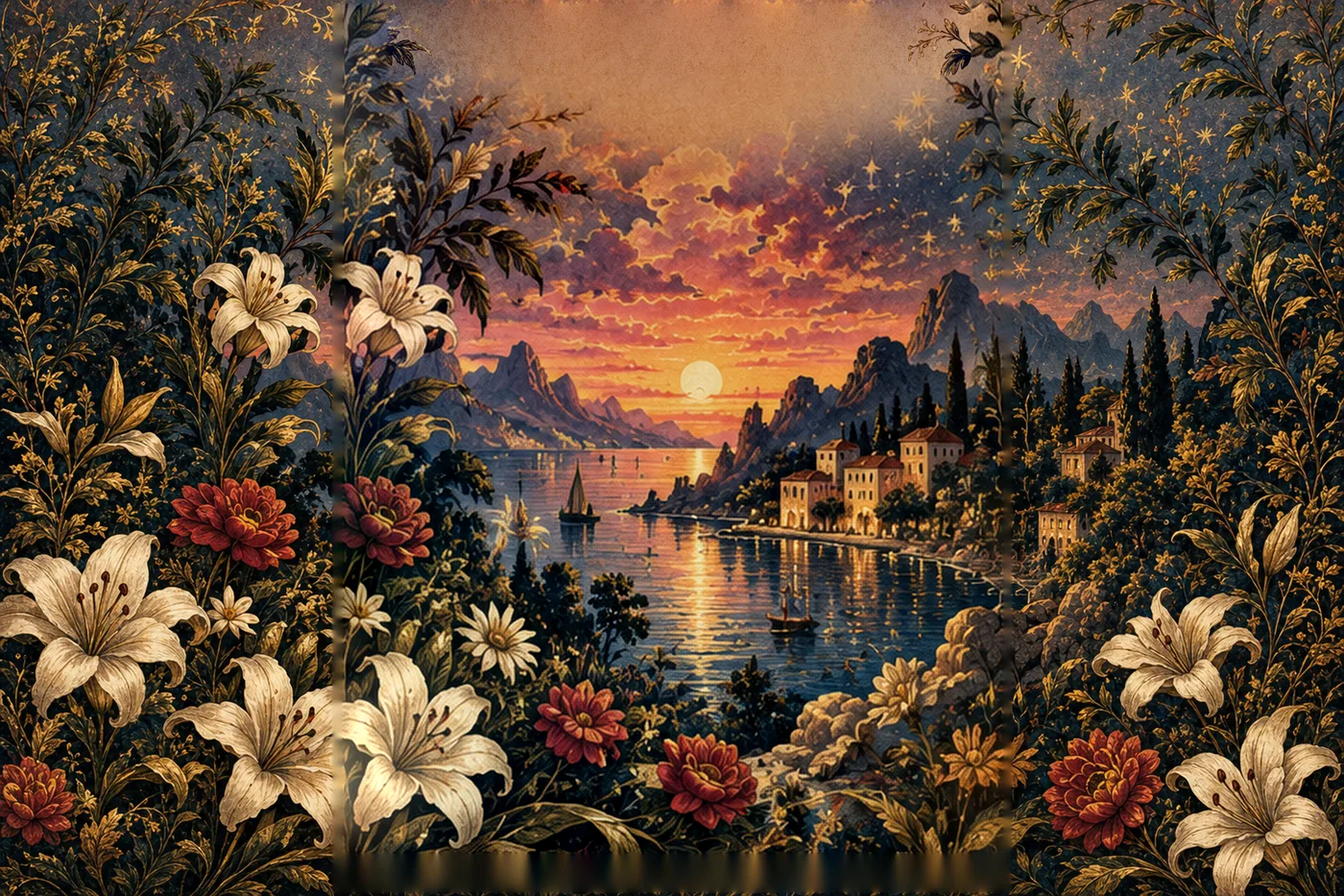
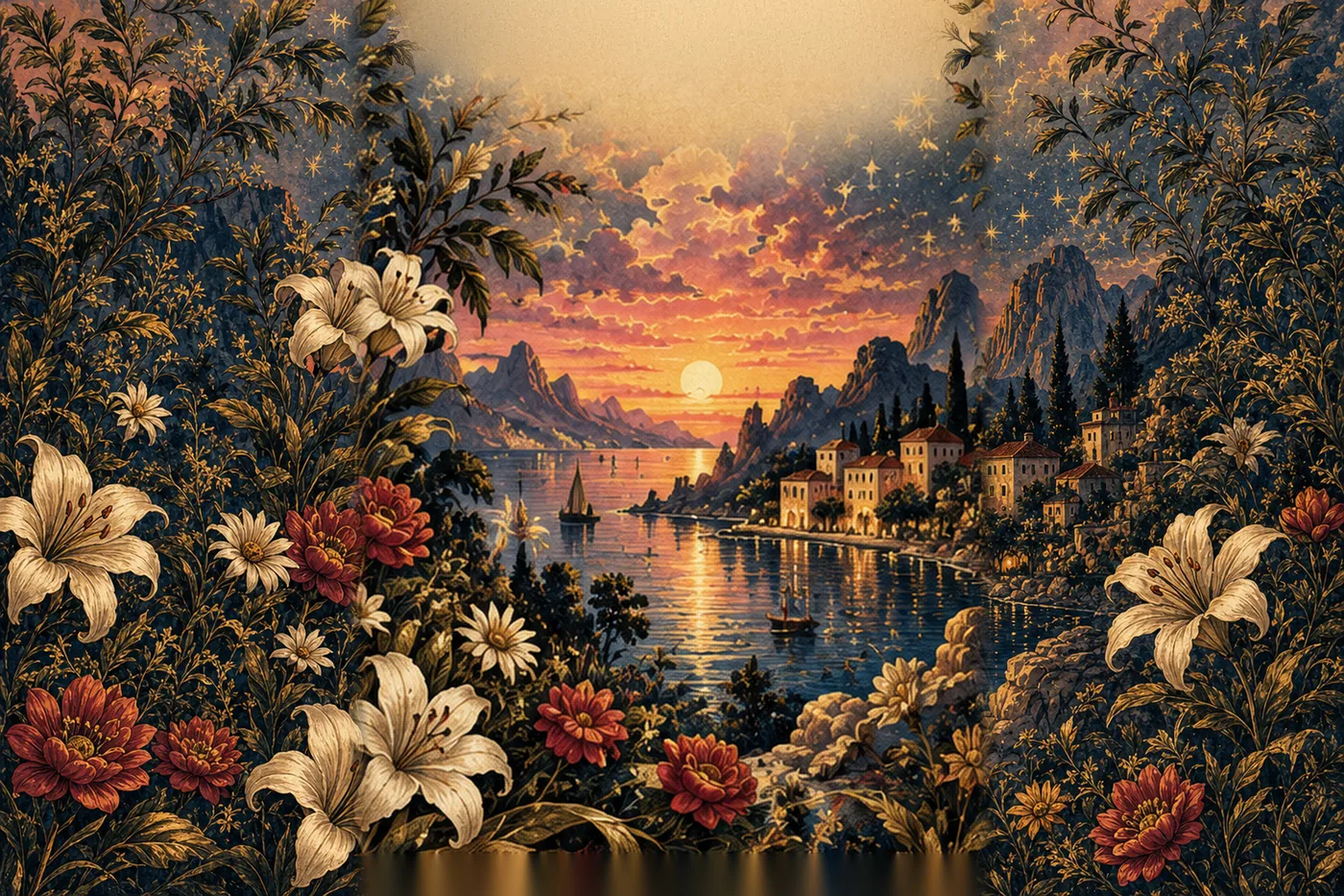
Welcome Back: one seamless repaint of the top layer (single crescent, stars, lilies, vines unbroken down both sides into plain parchment, no joins); the sunset's frame line cropped away; the form clear of the vines

diff --git a/public/art/sizes.js b/public/art/sizes.js
@@ -1,2 +1,2 @@
 /* generated by scripts/asset-manifest.mjs: [width, height, alpha] of every image under /art */
-window.KOSMIA_SIZES={"atlas/aw-clouds":[960,134,1],"atlas/aw-foot":[850,1004,0],"atlas/aw-top":[1269,846,0],"atlas/banner-calendar":[760,506,0],"atlas/banner-library":[760,506,0],"atlas/cal-scene":[1100,733,0],"atlas/ce-vignette":[480,720,0],"atlas/ds-death":[560,560,0],"atlas/ds-flying":[560,560,0],"atlas/ds-house":[560,560,0],"atlas/ds-snake":[560,560,0],"atlas/ds-water":[560,560,0],"atlas/ev-eclipse":[720,480,0],"atlas/ev-full":[720,480,0],"atlas/ev-meteor":[720,480,0],"atlas/ev-new":[720,480,0],"atlas/ev-planet":[720,480,0],"atlas/ev-quarter":[720,480,0],"atlas/ev-sun":[720,480,0],"atlas/ex-chart":[560,560,0],"atlas/ex-compat":[560,560,0],"atlas/ex-lifepath":[560,560,0],"atlas/ex-name":[560,560,0],"atlas/ex-resonance":[560,560,0],"atlas/fg-aquarius":[900,900,1],"atlas/fg-aries":[900,900,1],"atlas/fg-cancer":[900,900,1],"atlas/fg-capricorn":[900,900,1],"atlas/fg-gemini":[900,900,1],"atlas/fg-leo":[900,900,1],"atlas/fg-libra":[900,900,1],"atlas/fg-pisces":[900,900,1],"atlas/fg-sagittarius":[900,900,1],"atlas/fg-scorpio":[900,900,1],"atlas/fg-taurus":[900,900,1],"atlas/fg-virgo":[900,900,1],"atlas/hero-affinity":[1100,733,0],"atlas/hero-chart":[1100,733,0],"atlas/hero-discover":[1024,1024,0],"atlas/hero-dream":[1100,733,0],"atlas/hero-horoscope":[1024,1024,0],"atlas/hero-insights":[1100,733,0],"atlas/hero-journal":[1024,1024,0],"atlas/hero-lifepath":[1100,733,0],"atlas/hero-name":[1100,733,0],"atlas/hero-tarot":[1024,1024,0],"atlas/home-energy":[1200,800,0],"atlas/home-garden":[720,1080,0],"atlas/home-halo":[560,560,1],"atlas/home-lake":[720,1080,0],"atlas/home-sky":[1024,1536,0],"atlas/home-sun":[960,640,0],"atlas/home-vines":[720,1080,0],"atlas/ico-career":[275,320,1],"atlas/ico-family":[270,320,1],"atlas/ico-health":[281,320,1],"atlas/ico-love":[319,320,1],"atlas/ico-money":[262,320,1],"atlas/ico-overview":[282,320,1],"atlas/journal-end":[640,960,0],"atlas/kassandra-banner":[1100,733,0],"atlas/kassandra":[760,760,0],"atlas/landscape":[1100,733,0],"atlas/med-aquarius":[560,560,0],"atlas/med-aries":[560,560,0],"atlas/med-cancer":[560,560,0],"atlas/med-capricorn":[560,560,0],"atlas/med-gemini":[560,560,0],"atlas/med-leo":[560,560,0],"atlas/med-libra":[560,560,0],"atlas/med-pisces":[560,560,0],"atlas/med-sagittarius":[560,560,0],"atlas/med-scorpio":[560,560,0],"atlas/med-taurus":[560,560,0],"atlas/med-virgo":[560,560,0],"atlas/nav-discover":[314,320,1],"atlas/nav-home":[267,320,1],"atlas/nav-horoscope":[295,320,1],"atlas/nav-kassandra":[319,320,1],"atlas/nav-tarot":[270,320,1],"atlas/ne-card":[230,320,1],"atlas/ne-free":[269,320,1],"atlas/ob-crescent":[1200,800,0],"atlas/ob-final":[1200,800,0],"atlas/ob-sunset-blooms":[960,1440,1],"atlas/ob-sunset":[960,1440,0],"atlas/ob-welcome":[1024,1536,0],"atlas/ob-woman":[1200,800,0],"atlas/obm-dream":[192,192,0],"atlas/obm-moon":[192,192,0],"atlas/obm-star":[192,192,0],"atlas/obm-sun":[192,192,0],"atlas/obm-tarot":[192,192,0],"atlas/owl":[1100,733,0],"atlas/plate-aquarius":[640,960,0],"atlas/plate-aries":[640,960,0],"atlas/plate-cancer":[640,960,0],"atlas/plate-capricorn":[640,960,0],"atlas/plate-gemini":[640,960,0],"atlas/plate-leo":[640,960,0],"atlas/plate-libra":[640,960,0],"atlas/plate-pisces":[640,960,0],"atlas/plate-sagittarius":[640,960,0],"atlas/plate-scorpio":[640,960,0],"atlas/plate-taurus":[640,960,0],"atlas/plate-virgo":[640,960,0],"atlas/t-history":[307,320,1],"atlas/t-journal":[315,320,1],"atlas/t-reading":[269,320,1],"atlas/t-whisper":[315,320,1],"atlas/wb-sun":[1400,933,0],"atlas/wb-top":[1024,1536,0],"atlas/welcome":[640,960,0],"atlas/zm-aquarius":[400,400,0],"atlas/zm-aries":[400,400,0],"atlas/zm-cancer":[400,400,0],"atlas/zm-capricorn":[400,400,0],"atlas/zm-gemini":[400,400,0],"atlas/zm-leo":[400,400,0],"atlas/zm-libra":[400,400,0],"atlas/zm-pisces":[400,400,0],"atlas/zm-sagittarius":[400,400,0],"atlas/zm-scorpio":[400,400,0],"atlas/zm-taurus":[400,400,0],"atlas/zm-virgo":[400,400,0],"atlas/zs-bg":[850,1850,0],"cards/back":[600,900,0],"cards/cartouche":[640,640,1],"cards/crest":[144,67,1],"cards/kassandra-float":[278,300,1],"cards/kassandra":[480,480,0],"cards/ornament":[144,53,1],"cards/plaque":[1024,432,1],"cards/tarot-back":[600,900,0],"cats/aspects":[160,160,1],"cats/calendar":[160,160,1],"cats/career":[160,160,1],"cats/chart":[160,160,1],"cats/collection":[160,160,1],"cats/connections":[160,160,1],"cats/cycles":[160,160,1],"cats/deck":[160,160,1],"cats/family":[160,160,1],"cats/finance":[160,160,1],"cats/general":[160,160,1],"cats/health":[160,160,1],"cats/history":[160,160,1],"cats/insights":[160,160,1],"cats/lifepath":[160,160,1],"cats/love":[160,160,1],"cats/match":[160,160,1],"cats/moon":[160,160,1],"cats/namewithin":[160,160,1],"cats/new":[160,160,1],"cats/notifications":[160,160,1],"cats/planetary":[160,160,1],"cats/planets":[160,160,1],"cats/prefs":[160,160,1],"cats/privacy":[160,160,1],"cats/profile":[160,160,1],"cats/reflections":[160,160,1],"cats/resonance":[160,160,1],"cats/saved":[160,160,1],"cats/settings":[160,160,1],"cats/spreads":[160,160,1],"cats/today":[160,160,1],"cats/upcoming":[160,160,1],"cosmos":[768,1152,0],"deck/c1":[720,1080,0],"deck/c10":[720,1080,0],"deck/c11":[720,1080,0],"deck/c12":[720,1080,0],"deck/c13":[720,1080,0],"deck/c14":[720,1080,0],"deck/c2":[720,1080,0],"deck/c3":[720,1080,0],"deck/c4":[720,1080,0],"deck/c5":[720,1080,0],"deck/c6":[720,1080,0],"deck/c7":[720,1080,0],"deck/c8":[720,1080,0],"deck/c9":[720,1080,0],"deck/m0":[720,1080,0],"deck/m1":[720,1080,0],"deck/m10":[720,1080,0],"deck/m11":[720,1080,0],"deck/m12":[720,1080,0],"deck/m13":[720,1080,0],"deck/m14":[720,1080,0],"deck/m15":[720,1080,0],"deck/m16":[720,1080,0],"deck/m17":[720,1080,0],"deck/m18":[720,1080,0],"deck/m19":[720,1080,0],"deck/m2":[720,1080,0],"deck/m20":[720,1080,0],"deck/m21":[720,1080,0],"deck/m3":[720,1080,0],"deck/m4":[720,1080,0],"deck/m5":[720,1080,0],"deck/m6":[720,1080,0],"deck/m7":[720,1080,0],"deck/m8":[720,1080,0],"deck/m9":[720,1080,0],"deck/p1":[720,1080,0],"deck/p10":[720,1080,0],"deck/p11":[720,1080,0],"deck/p12":[720,1080,0],"deck/p13":[720,1080,0],"deck/p14":[720,1080,0],"deck/p2":[720,1080,0],"deck/p3":[720,1080,0],"deck/p4":[720,1080,0],"deck/p5":[720,1080,0],"deck/p6":[720,1080,0],"deck/p7":[720,1080,0],"deck/p8":[720,1080,0],"deck/p9":[720,1080,0],"deck/s1":[720,1080,0],"deck/s10":[720,1080,0],"deck/s11":[720,1080,0],"deck/s12":[720,1080,0],"deck/s13":[720,1080,0],"deck/s14":[720,1080,0],"deck/s2":[720,1080,0],"deck/s3":[720,1080,0],"deck/s4":[720,1080,0],"deck/s5":[720,1080,0],"deck/s6":[720,1080,0],"deck/s7":[720,1080,0],"deck/s8":[720,1080,0],"deck/s9":[720,1080,0],"deck/w1":[720,1080,0],"deck/w10":[720,1080,0],"deck/w11":[720,1080,0],"deck/w12":[720,1080,0],"deck/w13":[720,1080,0],"deck/w14":[720,1080,0],"deck/w2":[720,1080,0],"deck/w3":[720,1080,0],"deck/w4":[720,1080,0],"deck/w5":[720,1080,0],"deck/w6":[720,1080,0],"deck/w7":[720,1080,0],"deck/w8":[720,1080,0],"deck/w9":[720,1080,0],"frame-paper":[944,600,0],"frame":[1024,1536,0],"icons/aquarius":[256,256,1],"icons/aries":[256,256,1],"icons/cancer":[256,256,1],"icons/capricorn":[256,256,1],"icons/gemini":[256,256,1],"icons/leo":[256,256,1],"icons/libra":[256,256,1],"icons/pisces":[256,256,1],"icons/sagittarius":[256,256,1],"icons/scorpio":[256,256,1],"icons/taurus":[256,256,1],"icons/virgo":[256,256,1],"moons/first-quarter":[420,420,1],"moons/full-moon":[420,420,1],"moons/last-quarter":[420,420,1],"moons/new-moon":[420,420,1],"moons/waning-crescent":[420,420,1],"moons/waning-gibbous":[420,420,1],"moons/waxing-crescent":[420,420,1],"moons/waxing-gibbous":[420,420,1],"nav/calendar":[128,128,1],"nav/chart":[128,128,1],"nav/fortune":[128,128,1],"nav/home":[128,128,1],"nav/horoscopes":[128,128,1],"nav/love":[128,128,1],"nav/tarot":[128,128,1],"nav/universe":[128,128,1],"onboarding-paper":[1024,234,0],"onboarding":[1024,1536,0],"pages/compass-rose":[1024,1536,0],"pages/cover":[1024,1536,0],"pages/edge-h":[768,512,0],"pages/edge-v":[512,768,0],"pages/moon-phases":[1024,1536,0],"pages/night-sky":[1024,1536,0],"pages/pressed-roses":[1024,1536,0],"pages/sleeping-moon":[1024,1536,0],"pages/sun-face":[1024,1536,0],"plates/astro":[1024,683,0],"plates/connections":[1024,683,0],"plates/cycles":[1024,683,0],"plates/events":[1024,683,0],"plates/ins-astro":[1024,683,0],"plates/ins-numbers":[1024,683,0],"plates/ins-oracle":[1024,683,0],"plates/lifepath":[1024,683,0],"plates/locket":[1024,683,0],"plates/moon":[1024,683,0],"plates/name":[1024,683,0],"plates/natal":[1024,683,0],"plates/numbers":[1024,683,0],"plates/oracle":[1024,683,0],"plates/orrery":[1024,683,0],"plates/readings":[1024,683,0],"plates/sky":[1024,683,0],"plates/starmap":[1024,683,0],"plates/sunmoon":[1024,683,0],"plates/synastry":[1024,683,0],"scenes/aquarius":[768,1152,0],"scenes/aries":[768,1152,0],"scenes/cancer":[768,1152,0],"scenes/capricorn":[768,1152,0],"scenes/gemini":[768,1152,0],"scenes/leo":[768,1152,0],"scenes/libra":[768,1152,0],"scenes/pisces":[768,1152,0],"scenes/sagittarius":[768,1152,0],"scenes/scorpio":[768,1152,0],"scenes/taurus":[768,1152,0],"scenes/virgo":[768,1152,0],"spreads/career":[192,192,1],"spreads/celtic":[192,192,1],"spreads/love":[192,192,1],"spreads/one":[192,192,1],"spreads/ppf":[192,192,1],"spreads/scg":[192,192,1],"whispers/butterfly":[720,1080,0],"whispers/clear-crystal":[720,1080,0],"whispers/crossroads":[720,1080,0],"whispers/daily-bread":[720,1080,0],"whispers/dawn-chorus":[720,1080,0],"whispers/deep-roots":[720,1080,0],"whispers/distant-ship":[720,1080,0],"whispers/fairy-ring":[720,1080,0],"whispers/first-light":[720,1080,0],"whispers/gentle-rain":[720,1080,0],"whispers/golden-hour":[720,1080,0],"whispers/golden-key":[720,1080,0],"whispers/hidden-garden":[720,1080,0],"whispers/inner-key":[720,1080,0],"whispers/late-bloom":[720,1080,0],"whispers/lighthouse":[720,1080,0],"whispers/music-box":[720,1080,0],"whispers/nightingale":[720,1080,0],"whispers/north-star":[720,1080,0],"whispers/old-tree":[720,1080,0],"whispers/open-door":[720,1080,0],"whispers/open-path":[720,1080,0],"whispers/quiet-harvest":[720,1080,0],"whispers/quiet-moon":[720,1080,0],"whispers/returning-tide":[720,1080,0],"whispers/rising-sun":[720,1080,0],"whispers/sacred-flame":[720,1080,0],"whispers/sanctuary":[720,1080,0],"whispers/sealed-letter":[720,1080,0],"whispers/silver-thread":[720,1080,0],"whispers/snow-tracks":[720,1080,0],"whispers/stargazer":[720,1080,0],"whispers/steady-star":[720,1080,0],"whispers/stepping-stones":[720,1080,0],"whispers/still-water":[720,1080,0],"whispers/the-anchor":[720,1080,0],"whispers/the-aurora":[720,1080,0],"whispers/the-balloon":[720,1080,0],"whispers/the-bell":[720,1080,0],"whispers/the-bench":[720,1080,0],"whispers/the-birdcage":[720,1080,0],"whispers/the-blossom":[720,1080,0],"whispers/the-bridge":[720,1080,0],"whispers/the-cairn":[720,1080,0],"whispers/the-chalice":[720,1080,0],"whispers/the-comet":[720,1080,0],"whispers/the-compass":[720,1080,0],"whispers/the-dandelion":[720,1080,0],"whispers/the-eclipse":[720,1080,0],"whispers/the-ember":[720,1080,0],"whispers/the-feather":[720,1080,0],"whispers/the-fox":[720,1080,0],"whispers/the-frost":[720,1080,0],"whispers/the-hare":[720,1080,0],"whispers/the-harp":[720,1080,0],"whispers/the-hearth":[720,1080,0],"whispers/the-hedgerow":[720,1080,0],"whispers/the-heron":[720,1080,0],"whispers/the-hive":[720,1080,0],"whispers/the-hourglass":[720,1080,0],"whispers/the-kingfisher":[720,1080,0],"whispers/the-kite":[720,1080,0],"whispers/the-labyrinth":[720,1080,0],"whispers/the-lantern":[720,1080,0],"whispers/the-lotus":[720,1080,0],"whispers/the-mirror":[720,1080,0],"whispers/the-moth":[720,1080,0],"whispers/the-mountain":[720,1080,0],"whispers/the-nautilus":[720,1080,0],"whispers/the-nest":[720,1080,0],"whispers/the-orchard":[720,1080,0],"whispers/the-owl":[720,1080,0],"whispers/the-phoenix":[720,1080,0],"whispers/the-pinecone":[720,1080,0],"whispers/the-pomegranate":[720,1080,0],"whispers/the-river":[720,1080,0],"whispers/the-scales":[720,1080,0],"whispers/the-seed":[720,1080,0],"whispers/the-snail":[720,1080,0],"whispers/the-snowdrop":[720,1080,0],"whispers/the-spiral":[720,1080,0],"whispers/the-stag":[720,1080,0],"whispers/the-stile":[720,1080,0],"whispers/the-sundial":[720,1080,0],"whispers/the-swan":[720,1080,0],"whispers/the-swing":[720,1080,0],"whispers/the-tapestry":[720,1080,0],"whispers/the-waterfall":[720,1080,0],"whispers/the-weaver":[720,1080,0],"whispers/the-web":[720,1080,0],"whispers/the-well":[720,1080,0],"whispers/the-whale":[720,1080,0],"whispers/the-willow":[720,1080,0],"whispers/the-wind":[720,1080,0],"whispers/turning-wheel":[720,1080,0],"whispers/two-moons":[720,1080,0],"whispers/watchful-eye":[720,1080,0],"whispers/white-lily":[720,1080,0],"whispers/wild-geese":[720,1080,0],"whispers/wild-horse":[720,1080,0]};
+window.KOSMIA_SIZES={"atlas/aw-clouds":[960,134,1],"atlas/aw-foot":[850,1004,0],"atlas/aw-top":[1269,846,0],"atlas/banner-calendar":[760,506,0],"atlas/banner-library":[760,506,0],"atlas/cal-scene":[1100,733,0],"atlas/ce-vignette":[480,720,0],"atlas/ds-death":[560,560,0],"atlas/ds-flying":[560,560,0],"atlas/ds-house":[560,560,0],"atlas/ds-snake":[560,560,0],"atlas/ds-water":[560,560,0],"atlas/ev-eclipse":[720,480,0],"atlas/ev-full":[720,480,0],"atlas/ev-meteor":[720,480,0],"atlas/ev-new":[720,480,0],"atlas/ev-planet":[720,480,0],"atlas/ev-quarter":[720,480,0],"atlas/ev-sun":[720,480,0],"atlas/ex-chart":[560,560,0],"atlas/ex-compat":[560,560,0],"atlas/ex-lifepath":[560,560,0],"atlas/ex-name":[560,560,0],"atlas/ex-resonance":[560,560,0],"atlas/fg-aquarius":[900,900,1],"atlas/fg-aries":[900,900,1],"atlas/fg-cancer":[900,900,1],"atlas/fg-capricorn":[900,900,1],"atlas/fg-gemini":[900,900,1],"atlas/fg-leo":[900,900,1],"atlas/fg-libra":[900,900,1],"atlas/fg-pisces":[900,900,1],"atlas/fg-sagittarius":[900,900,1],"atlas/fg-scorpio":[900,900,1],"atlas/fg-taurus":[900,900,1],"atlas/fg-virgo":[900,900,1],"atlas/hero-affinity":[1100,733,0],"atlas/hero-chart":[1100,733,0],"atlas/hero-discover":[1024,1024,0],"atlas/hero-dream":[1100,733,0],"atlas/hero-horoscope":[1024,1024,0],"atlas/hero-insights":[1100,733,0],"atlas/hero-journal":[1024,1024,0],"atlas/hero-lifepath":[1100,733,0],"atlas/hero-name":[1100,733,0],"atlas/hero-tarot":[1024,1024,0],"atlas/home-energy":[1200,800,0],"atlas/home-garden":[720,1080,0],"atlas/home-halo":[560,560,1],"atlas/home-lake":[720,1080,0],"atlas/home-sky":[1024,1536,0],"atlas/home-sun":[960,640,0],"atlas/home-vines":[720,1080,0],"atlas/ico-career":[275,320,1],"atlas/ico-family":[270,320,1],"atlas/ico-health":[281,320,1],"atlas/ico-love":[319,320,1],"atlas/ico-money":[262,320,1],"atlas/ico-overview":[282,320,1],"atlas/journal-end":[640,960,0],"atlas/kassandra-banner":[1100,733,0],"atlas/kassandra":[760,760,0],"atlas/landscape":[1100,733,0],"atlas/med-aquarius":[560,560,0],"atlas/med-aries":[560,560,0],"atlas/med-cancer":[560,560,0],"atlas/med-capricorn":[560,560,0],"atlas/med-gemini":[560,560,0],"atlas/med-leo":[560,560,0],"atlas/med-libra":[560,560,0],"atlas/med-pisces":[560,560,0],"atlas/med-sagittarius":[560,560,0],"atlas/med-scorpio":[560,560,0],"atlas/med-taurus":[560,560,0],"atlas/med-virgo":[560,560,0],"atlas/nav-discover":[314,320,1],"atlas/nav-home":[267,320,1],"atlas/nav-horoscope":[295,320,1],"atlas/nav-kassandra":[319,320,1],"atlas/nav-tarot":[270,320,1],"atlas/ne-card":[230,320,1],"atlas/ne-free":[269,320,1],"atlas/ob-crescent":[1200,800,0],"atlas/ob-final":[1200,800,0],"atlas/ob-sunset-blooms":[960,1440,1],"atlas/ob-sunset":[960,1440,0],"atlas/ob-welcome":[1024,1536,0],"atlas/ob-woman":[1200,800,0],"atlas/obm-dream":[192,192,0],"atlas/obm-moon":[192,192,0],"atlas/obm-star":[192,192,0],"atlas/obm-sun":[192,192,0],"atlas/obm-tarot":[192,192,0],"atlas/owl":[1100,733,0],"atlas/plate-aquarius":[640,960,0],"atlas/plate-aries":[640,960,0],"atlas/plate-cancer":[640,960,0],"atlas/plate-capricorn":[640,960,0],"atlas/plate-gemini":[640,960,0],"atlas/plate-leo":[640,960,0],"atlas/plate-libra":[640,960,0],"atlas/plate-pisces":[640,960,0],"atlas/plate-sagittarius":[640,960,0],"atlas/plate-scorpio":[640,960,0],"atlas/plate-taurus":[640,960,0],"atlas/plate-virgo":[640,960,0],"atlas/t-history":[307,320,1],"atlas/t-journal":[315,320,1],"atlas/t-reading":[269,320,1],"atlas/t-whisper":[315,320,1],"atlas/wb-sun":[1400,933,0],"atlas/wb-top":[1024,1857,0],"atlas/welcome":[640,960,0],"atlas/zm-aquarius":[400,400,0],"atlas/zm-aries":[400,400,0],"atlas/zm-cancer":[400,400,0],"atlas/zm-capricorn":[400,400,0],"atlas/zm-gemini":[400,400,0],"atlas/zm-leo":[400,400,0],"atlas/zm-libra":[400,400,0],"atlas/zm-pisces":[400,400,0],"atlas/zm-sagittarius":[400,400,0],"atlas/zm-scorpio":[400,400,0],"atlas/zm-taurus":[400,400,0],"atlas/zm-virgo":[400,400,0],"atlas/zs-bg":[850,1850,0],"cards/back":[600,900,0],"cards/cartouche":[640,640,1],"cards/crest":[144,67,1],"cards/kassandra-float":[278,300,1],"cards/kassandra":[480,480,0],"cards/ornament":[144,53,1],"cards/plaque":[1024,432,1],"cards/tarot-back":[600,900,0],"cats/aspects":[160,160,1],"cats/calendar":[160,160,1],"cats/career":[160,160,1],"cats/chart":[160,160,1],"cats/collection":[160,160,1],"cats/connections":[160,160,1],"cats/cycles":[160,160,1],"cats/deck":[160,160,1],"cats/family":[160,160,1],"cats/finance":[160,160,1],"cats/general":[160,160,1],"cats/health":[160,160,1],"cats/history":[160,160,1],"cats/insights":[160,160,1],"cats/lifepath":[160,160,1],"cats/love":[160,160,1],"cats/match":[160,160,1],"cats/moon":[160,160,1],"cats/namewithin":[160,160,1],"cats/new":[160,160,1],"cats/notifications":[160,160,1],"cats/planetary":[160,160,1],"cats/planets":[160,160,1],"cats/prefs":[160,160,1],"cats/privacy":[160,160,1],"cats/profile":[160,160,1],"cats/reflections":[160,160,1],"cats/resonance":[160,160,1],"cats/saved":[160,160,1],"cats/settings":[160,160,1],"cats/spreads":[160,160,1],"cats/today":[160,160,1],"cats/upcoming":[160,160,1],"cosmos":[768,1152,0],"deck/c1":[720,1080,0],"deck/c10":[720,1080,0],"deck/c11":[720,1080,0],"deck/c12":[720,1080,0],"deck/c13":[720,1080,0],"deck/c14":[720,1080,0],"deck/c2":[720,1080,0],"deck/c3":[720,1080,0],"deck/c4":[720,1080,0],"deck/c5":[720,1080,0],"deck/c6":[720,1080,0],"deck/c7":[720,1080,0],"deck/c8":[720,1080,0],"deck/c9":[720,1080,0],"deck/m0":[720,1080,0],"deck/m1":[720,1080,0],"deck/m10":[720,1080,0],"deck/m11":[720,1080,0],"deck/m12":[720,1080,0],"deck/m13":[720,1080,0],"deck/m14":[720,1080,0],"deck/m15":[720,1080,0],"deck/m16":[720,1080,0],"deck/m17":[720,1080,0],"deck/m18":[720,1080,0],"deck/m19":[720,1080,0],"deck/m2":[720,1080,0],"deck/m20":[720,1080,0],"deck/m21":[720,1080,0],"deck/m3":[720,1080,0],"deck/m4":[720,1080,0],"deck/m5":[720,1080,0],"deck/m6":[720,1080,0],"deck/m7":[720,1080,0],"deck/m8":[720,1080,0],"deck/m9":[720,1080,0],"deck/p1":[720,1080,0],"deck/p10":[720,1080,0],"deck/p11":[720,1080,0],"deck/p12":[720,1080,0],"deck/p13":[720,1080,0],"deck/p14":[720,1080,0],"deck/p2":[720,1080,0],"deck/p3":[720,1080,0],"deck/p4":[720,1080,0],"deck/p5":[720,1080,0],"deck/p6":[720,1080,0],"deck/p7":[720,1080,0],"deck/p8":[720,1080,0],"deck/p9":[720,1080,0],"deck/s1":[720,1080,0],"deck/s10":[720,1080,0],"deck/s11":[720,1080,0],"deck/s12":[720,1080,0],"deck/s13":[720,1080,0],"deck/s14":[720,1080,0],"deck/s2":[720,1080,0],"deck/s3":[720,1080,0],"deck/s4":[720,1080,0],"deck/s5":[720,1080,0],"deck/s6":[720,1080,0],"deck/s7":[720,1080,0],"deck/s8":[720,1080,0],"deck/s9":[720,1080,0],"deck/w1":[720,1080,0],"deck/w10":[720,1080,0],"deck/w11":[720,1080,0],"deck/w12":[720,1080,0],"deck/w13":[720,1080,0],"deck/w14":[720,1080,0],"deck/w2":[720,1080,0],"deck/w3":[720,1080,0],"deck/w4":[720,1080,0],"deck/w5":[720,1080,0],"deck/w6":[720,1080,0],"deck/w7":[720,1080,0],"deck/w8":[720,1080,0],"deck/w9":[720,1080,0],"frame-paper":[944,600,0],"frame":[1024,1536,0],"icons/aquarius":[256,256,1],"icons/aries":[256,256,1],"icons/cancer":[256,256,1],"icons/capricorn":[256,256,1],"icons/gemini":[256,256,1],"icons/leo":[256,256,1],"icons/libra":[256,256,1],"icons/pisces":[256,256,1],"icons/sagittarius":[256,256,1],"icons/scorpio":[256,256,1],"icons/taurus":[256,256,1],"icons/virgo":[256,256,1],"moons/first-quarter":[420,420,1],"moons/full-moon":[420,420,1],"moons/last-quarter":[420,420,1],"moons/new-moon":[420,420,1],"moons/waning-crescent":[420,420,1],"moons/waning-gibbous":[420,420,1],"moons/waxing-crescent":[420,420,1],"moons/waxing-gibbous":[420,420,1],"nav/calendar":[128,128,1],"nav/chart":[128,128,1],"nav/fortune":[128,128,1],"nav/home":[128,128,1],"nav/horoscopes":[128,128,1],"nav/love":[128,128,1],"nav/tarot":[128,128,1],"nav/universe":[128,128,1],"onboarding-paper":[1024,234,0],"onboarding":[1024,1536,0],"pages/compass-rose":[1024,1536,0],"pages/cover":[1024,1536,0],"pages/edge-h":[768,512,0],"pages/edge-v":[512,768,0],"pages/moon-phases":[1024,1536,0],"pages/night-sky":[1024,1536,0],"pages/pressed-roses":[1024,1536,0],"pages/sleeping-moon":[1024,1536,0],"pages/sun-face":[1024,1536,0],"plates/astro":[1024,683,0],"plates/connections":[1024,683,0],"plates/cycles":[1024,683,0],"plates/events":[1024,683,0],"plates/ins-astro":[1024,683,0],"plates/ins-numbers":[1024,683,0],"plates/ins-oracle":[1024,683,0],"plates/lifepath":[1024,683,0],"plates/locket":[1024,683,0],"plates/moon":[1024,683,0],"plates/name":[1024,683,0],"plates/natal":[1024,683,0],"plates/numbers":[1024,683,0],"plates/oracle":[1024,683,0],"plates/orrery":[1024,683,0],"plates/readings":[1024,683,0],"plates/sky":[1024,683,0],"plates/starmap":[1024,683,0],"plates/sunmoon":[1024,683,0],"plates/synastry":[1024,683,0],"scenes/aquarius":[768,1152,0],"scenes/aries":[768,1152,0],"scenes/cancer":[768,1152,0],"scenes/capricorn":[768,1152,0],"scenes/gemini":[768,1152,0],"scenes/leo":[768,1152,0],"scenes/libra":[768,1152,0],"scenes/pisces":[768,1152,0],"scenes/sagittarius":[768,1152,0],"scenes/scorpio":[768,1152,0],"scenes/taurus":[768,1152,0],"scenes/virgo":[768,1152,0],"spreads/career":[192,192,1],"spreads/celtic":[192,192,1],"spreads/love":[192,192,1],"spreads/one":[192,192,1],"spreads/ppf":[192,192,1],"spreads/scg":[192,192,1],"whispers/butterfly":[720,1080,0],"whispers/clear-crystal":[720,1080,0],"whispers/crossroads":[720,1080,0],"whispers/daily-bread":[720,1080,0],"whispers/dawn-chorus":[720,1080,0],"whispers/deep-roots":[720,1080,0],"whispers/distant-ship":[720,1080,0],"whispers/fairy-ring":[720,1080,0],"whispers/first-light":[720,1080,0],"whispers/gentle-rain":[720,1080,0],"whispers/golden-hour":[720,1080,0],"whispers/golden-key":[720,1080,0],"whispers/hidden-garden":[720,1080,0],"whispers/inner-key":[720,1080,0],"whispers/late-bloom":[720,1080,0],"whispers/lighthouse":[720,1080,0],"whispers/music-box":[720,1080,0],"whispers/nightingale":[720,1080,0],"whispers/north-star":[720,1080,0],"whispers/old-tree":[720,1080,0],"whispers/open-door":[720,1080,0],"whispers/open-path":[720,1080,0],"whispers/quiet-harvest":[720,1080,0],"whispers/quiet-moon":[720,1080,0],"whispers/returning-tide":[720,1080,0],"whispers/rising-sun":[720,1080,0],"whispers/sacred-flame":[720,1080,0],"whispers/sanctuary":[720,1080,0],"whispers/sealed-letter":[720,1080,0],"whispers/silver-thread":[720,1080,0],"whispers/snow-tracks":[720,1080,0],"whispers/stargazer":[720,1080,0],"whispers/steady-star":[720,1080,0],"whispers/stepping-stones":[720,1080,0],"whispers/still-water":[720,1080,0],"whispers/the-anchor":[720,1080,0],"whispers/the-aurora":[720,1080,0],"whispers/the-balloon":[720,1080,0],"whispers/the-bell":[720,1080,0],"whispers/the-bench":[720,1080,0],"whispers/the-birdcage":[720,1080,0],"whispers/the-blossom":[720,1080,0],"whispers/the-bridge":[720,1080,0],"whispers/the-cairn":[720,1080,0],"whispers/the-chalice":[720,1080,0],"whispers/the-comet":[720,1080,0],"whispers/the-compass":[720,1080,0],"whispers/the-dandelion":[720,1080,0],"whispers/the-eclipse":[720,1080,0],"whispers/the-ember":[720,1080,0],"whispers/the-feather":[720,1080,0],"whispers/the-fox":[720,1080,0],"whispers/the-frost":[720,1080,0],"whispers/the-hare":[720,1080,0],"whispers/the-harp":[720,1080,0],"whispers/the-hearth":[720,1080,0],"whispers/the-hedgerow":[720,1080,0],"whispers/the-heron":[720,1080,0],"whispers/the-hive":[720,1080,0],"whispers/the-hourglass":[720,1080,0],"whispers/the-kingfisher":[720,1080,0],"whispers/the-kite":[720,1080,0],"whispers/the-labyrinth":[720,1080,0],"whispers/the-lantern":[720,1080,0],"whispers/the-lotus":[720,1080,0],"whispers/the-mirror":[720,1080,0],"whispers/the-moth":[720,1080,0],"whispers/the-mountain":[720,1080,0],"whispers/the-nautilus":[720,1080,0],"whispers/the-nest":[720,1080,0],"whispers/the-orchard":[720,1080,0],"whispers/the-owl":[720,1080,0],"whispers/the-phoenix":[720,1080,0],"whispers/the-pinecone":[720,1080,0],"whispers/the-pomegranate":[720,1080,0],"whispers/the-river":[720,1080,0],"whispers/the-scales":[720,1080,0],"whispers/the-seed":[720,1080,0],"whispers/the-snail":[720,1080,0],"whispers/the-snowdrop":[720,1080,0],"whispers/the-spiral":[720,1080,0],"whispers/the-stag":[720,1080,0],"whispers/the-stile":[720,1080,0],"whispers/the-sundial":[720,1080,0],"whispers/the-swan":[720,1080,0],"whispers/the-swing":[720,1080,0],"whispers/the-tapestry":[720,1080,0],"whispers/the-waterfall":[720,1080,0],"whispers/the-weaver":[720,1080,0],"whispers/the-web":[720,1080,0],"whispers/the-well":[720,1080,0],"whispers/the-whale":[720,1080,0],"whispers/the-willow":[720,1080,0],"whispers/the-wind":[720,1080,0],"whispers/turning-wheel":[720,1080,0],"whispers/two-moons":[720,1080,0],"whispers/watchful-eye":[720,1080,0],"whispers/white-lily":[720,1080,0],"whispers/wild-geese":[720,1080,0],"whispers/wild-horse":[720,1080,0]};

diff --git a/public/styles.css b/public/styles.css
@@ -1400,21 +1400,21 @@ html:has(.ob-sign),html:has(.ob-sign) body{background:#0D1426;overscroll-behavio
 .ob-wb{--H:100vh;container-type:inline-size;min-height:var(--H);padding:0;gap:0;justify-content:flex-start;background:#E9D2A6}
 @supports (height:100dvh){.ob-wb{--H:100dvh}}
 html:has(.ob-wb),html:has(.ob-wb) body{background:#2A2219;overscroll-behavior:none}
-.wb-t{top:0;height:150cqw;-webkit-mask-image:linear-gradient(#000 82%,transparent);mask-image:linear-gradient(#000 82%,transparent)}
-.ob-wb{--av:clamp(36cqw,calc(var(--H)*.9 - 46.5cqw - 322px),84.62cqw)}
-.wb-s{left:50%;bottom:0;width:127cqw;height:84.62cqw;transform:translateX(-50%);-webkit-mask-image:linear-gradient(to top,#000 calc(var(--av) - 17cqw),transparent var(--av));mask-image:linear-gradient(to top,#000 calc(var(--av) - 17cqw),transparent var(--av))}
+.wb-t{top:0;height:181.2cqw;-webkit-mask-image:linear-gradient(#000 82%,transparent);mask-image:linear-gradient(#000 82%,transparent)}
+.ob-wb{--av:clamp(36cqw,calc(var(--H)*.9 - 56cqw - 322px),84.62cqw)}
+.wb-s{left:50%;bottom:-4.5cqw;width:127cqw;height:84.62cqw;transform:translateX(-50%);-webkit-mask-image:linear-gradient(to top,#000 calc(var(--av) - 17cqw),transparent var(--av));mask-image:linear-gradient(to top,#000 calc(var(--av) - 17cqw),transparent var(--av))}
 .ob-wb>.ibtn{top:calc(12cqw + max(0px,env(safe-area-inset-top,0px) - 10cqw));left:3cqw}
-.ob-wb h1{margin:max(46.5cqw,calc(env(safe-area-inset-top,0px) + 42cqw)) 0 0;font-family:var(--font-serif);font-weight:700;font-size:min(10.4cqw,2.9rem);line-height:1.05;color:#2E2118}
+.ob-wb h1{margin:max(56cqw,calc(env(safe-area-inset-top,0px) + 50cqw)) 0 0;font-family:var(--font-serif);font-weight:700;font-size:min(10.4cqw,2.9rem);line-height:1.05;color:#2E2118}
 .ob-wb .ob-lead{margin:clamp(4px,1.2vh,10px) auto 0;max-width:84cqw;font-family:var(--font-text);font-size:max(14.5px,3.9cqw);line-height:1.3;color:var(--k-ink)}
-.ob-wb .ob-fields{width:82cqw;margin:clamp(8px,2.2vh,20px) auto 0;gap:clamp(6px,1.35vh,12px);max-width:none}
+.ob-wb .ob-fields{width:71cqw;margin:clamp(8px,2.2vh,20px) auto 0;gap:clamp(6px,1.35vh,12px);max-width:none}
 .ob-wb .field{gap:clamp(3px,.7vh,6px)}
 .ob-wb .field>label{font-size:1rem}
-.ob-wb input{min-height:clamp(44px,5.8vh,50px);background:rgba(250,240,220,.7)}
+.ob-wb input{min-height:clamp(44px,5.8vh,50px);background:rgba(250,240,220,.9)}
 .ob-wb .btn,.ob-wb .btn[disabled]{min-height:clamp(44px,5.8vh,50px);margin-top:clamp(2px,.8vh,8px);opacity:1;background:linear-gradient(#4A3324,#2C1D13);color:#F1DCAA;letter-spacing:.16em}
 .ob-wb .btn[disabled]{color:rgba(241,220,170,.7)}
 .ob-wb .auth-alt{margin:0;font-size:.98rem;text-shadow:0 0 8px rgba(246,230,200,.95),0 0 3px rgba(246,230,200,.95)}
 .ob-wb .ob-fields .ob-rule{margin:0 auto}
-@media (max-height:780px){.ob-wb{--av:clamp(36cqw,calc(var(--H)*.94 - 46.5cqw - 300px),84.62cqw)}
+@media (max-height:780px){.ob-wb{--av:clamp(36cqw,calc(var(--H)*.94 - 56cqw - 300px),84.62cqw)}
  .ob-wb .ob-lead{margin-top:2px;font-size:14px}.ob-wb .ob-fields{margin-top:8px;gap:5px}.ob-wb .field{gap:2px}
  .ob-wb .field>label{font-size:.94rem}.ob-wb input,.ob-wb .btn,.ob-wb .btn[disabled]{min-height:44px}.ob-wb .btn{margin-top:4px}
  .ob-wb .ob-fields .ob-rule{margin:-4px auto}.ob-wb .auth-alt{font-size:.93rem}}

diff --git a/docs/ONBOARDING-V2.md b/docs/ONBOARDING-V2.md
@@ -112,6 +112,7 @@ The earlier bespoke `ob-wisdom` painting is retired (deleted with its paint job)
 - **Two layers of it:** `wb-top` (the night, crescent, lilies and vines opening into the parchment with its painted star) from the top, and `wb-sun` (the sunset with clouds, sun, mountains, town, lake and flowers) from the foot. The mockup is three times taller than wide, so both are shown a little smaller than the mockup's scale, their sides painted further in the same style (the original centre unchanged, blended in the gradient domain).
 - **One screen:** the sunset starts just below the last link at every size (its top dissolving into the parchment), so all text stays on parchment. On short screens (under 780px tall) the form tightens a little and the sunset's upper clouds and sun dissolve away; the town, lake and flowers are always kept. No scrolling from 360×640 to 430×932.
 - **The form:** the mockup's serif heading and subtitle, cream fields with fine gold edges, a dark chocolate Sign In button with gold lettering (dark even before typing; dimmer lettering while disabled), burgundy links. The sign-in calls are unchanged.
+- **Revised (approved):** `wb-top` is now one seamless repaint (a single `gpt-image-2` pass guided by the mockup's art): the crescent, stars and painted star, lilies at both top corners and slender vines running unbroken down both sides into plain parchment, with no joins. Its crescent is a little smaller than the mockup's. `wb-sun` drops the mockup's frame line at its sides and foot (cropped, its sides painted again; the foot set 4.5% of the width below the page edge). The form is 71% of the width so the vines never reach the labels; the fields are 90% opaque.
 - `ob-crescent` stays in use on Check your inbox and the reset page.
 
 ## Checks

diff --git a/docs/asset-manifest.md b/docs/asset-manifest.md
@@ -25,7 +25,7 @@ their space before they load.
 | `public/art/atlas/home-lake.webp` | 720×1080 | 2:3 | no | 160 | provisional |  |
 | `public/art/atlas/ob-crescent.webp` | 1200×800 | 3:2 | no | 221 | provisional |  |
 | `public/art/atlas/ob-final.webp` | 1200×800 | 3:2 | no | 305 | provisional |  |
-| `public/art/atlas/ob-sunset-blooms.webp` | 960×1440 | 2:3 | yes | 59 | provisional |  |
+| `public/art/atlas/ob-sunset-blooms.webp` | 960×1440 | 2:3 | yes | 73 | provisional |  |
 | `public/art/atlas/ob-sunset.webp` | 960×1440 | 2:3 | no | 378 | provisional |  |
 | `public/art/atlas/ob-welcome.webp` | 1024×1536 | 2:3 | no | 464 | provisional |  |
 | `public/art/atlas/ob-woman.webp` | 1200×800 | 3:2 | no | 238 | provisional |  |
@@ -34,8 +34,8 @@ their space before they load.
 | `public/art/atlas/obm-star.webp` | 192×192 | 1:1 | no | 7 | provisional |  |
 | `public/art/atlas/obm-sun.webp` | 192×192 | 1:1 | no | 11 | provisional |  |
 | `public/art/atlas/obm-tarot.webp` | 192×192 | 1:1 | no | 7 | provisional |  |
-| `public/art/atlas/wb-sun.webp` | 1400×933 | 1.50:1 | no | 377 | provisional |  |
-| `public/art/atlas/wb-top.webp` | 1024×1536 | 2:3 | no | 240 | provisional |  |
+| `public/art/atlas/wb-sun.webp` | 1400×933 | 1.50:1 | no | 387 | provisional |  |
+| `public/art/atlas/wb-top.webp` | 1024×1857 | 0.55:1 | no | 358 | provisional |  |
 | `public/art/atlas/zm-aquarius.webp` | 400×400 | 1:1 | no | 49 | provisional |  |
 | `public/art/atlas/zm-aries.webp` | 400×400 | 1:1 | no | 53 | provisional |  |
 | `public/art/atlas/zm-cancer.webp` | 400×400 | 1:1 | no | 48 | provisional |  |
